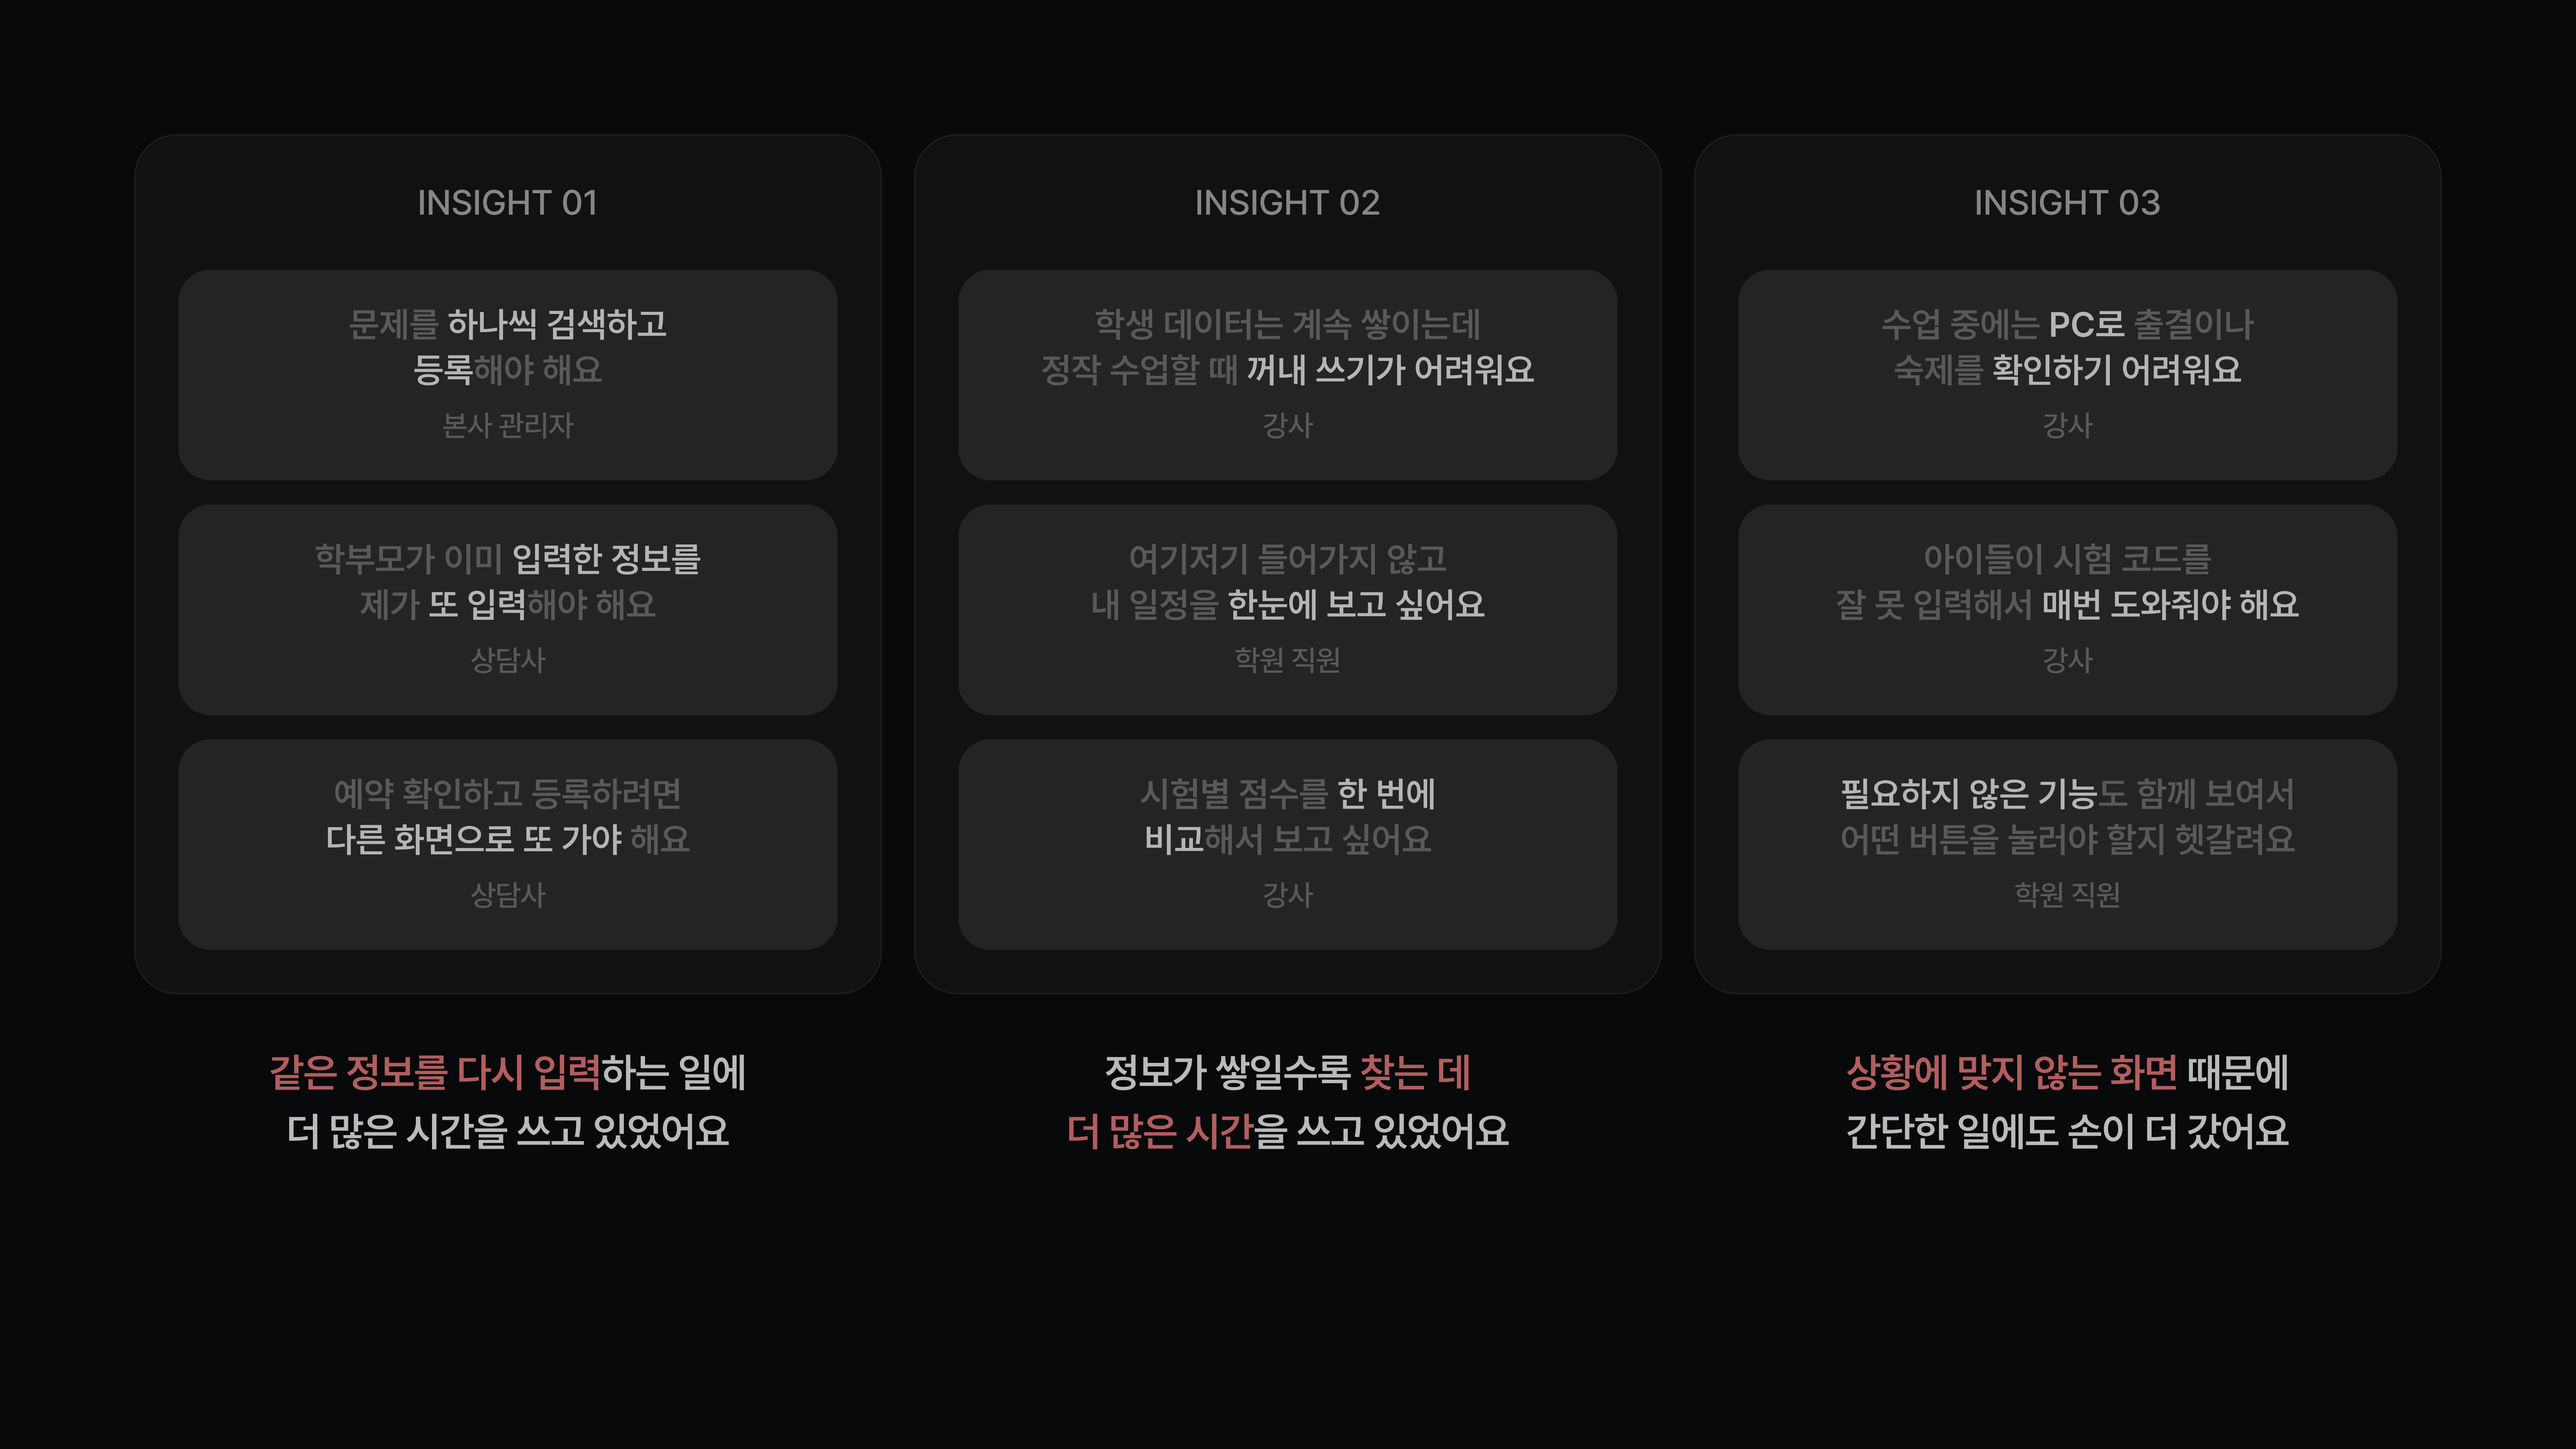
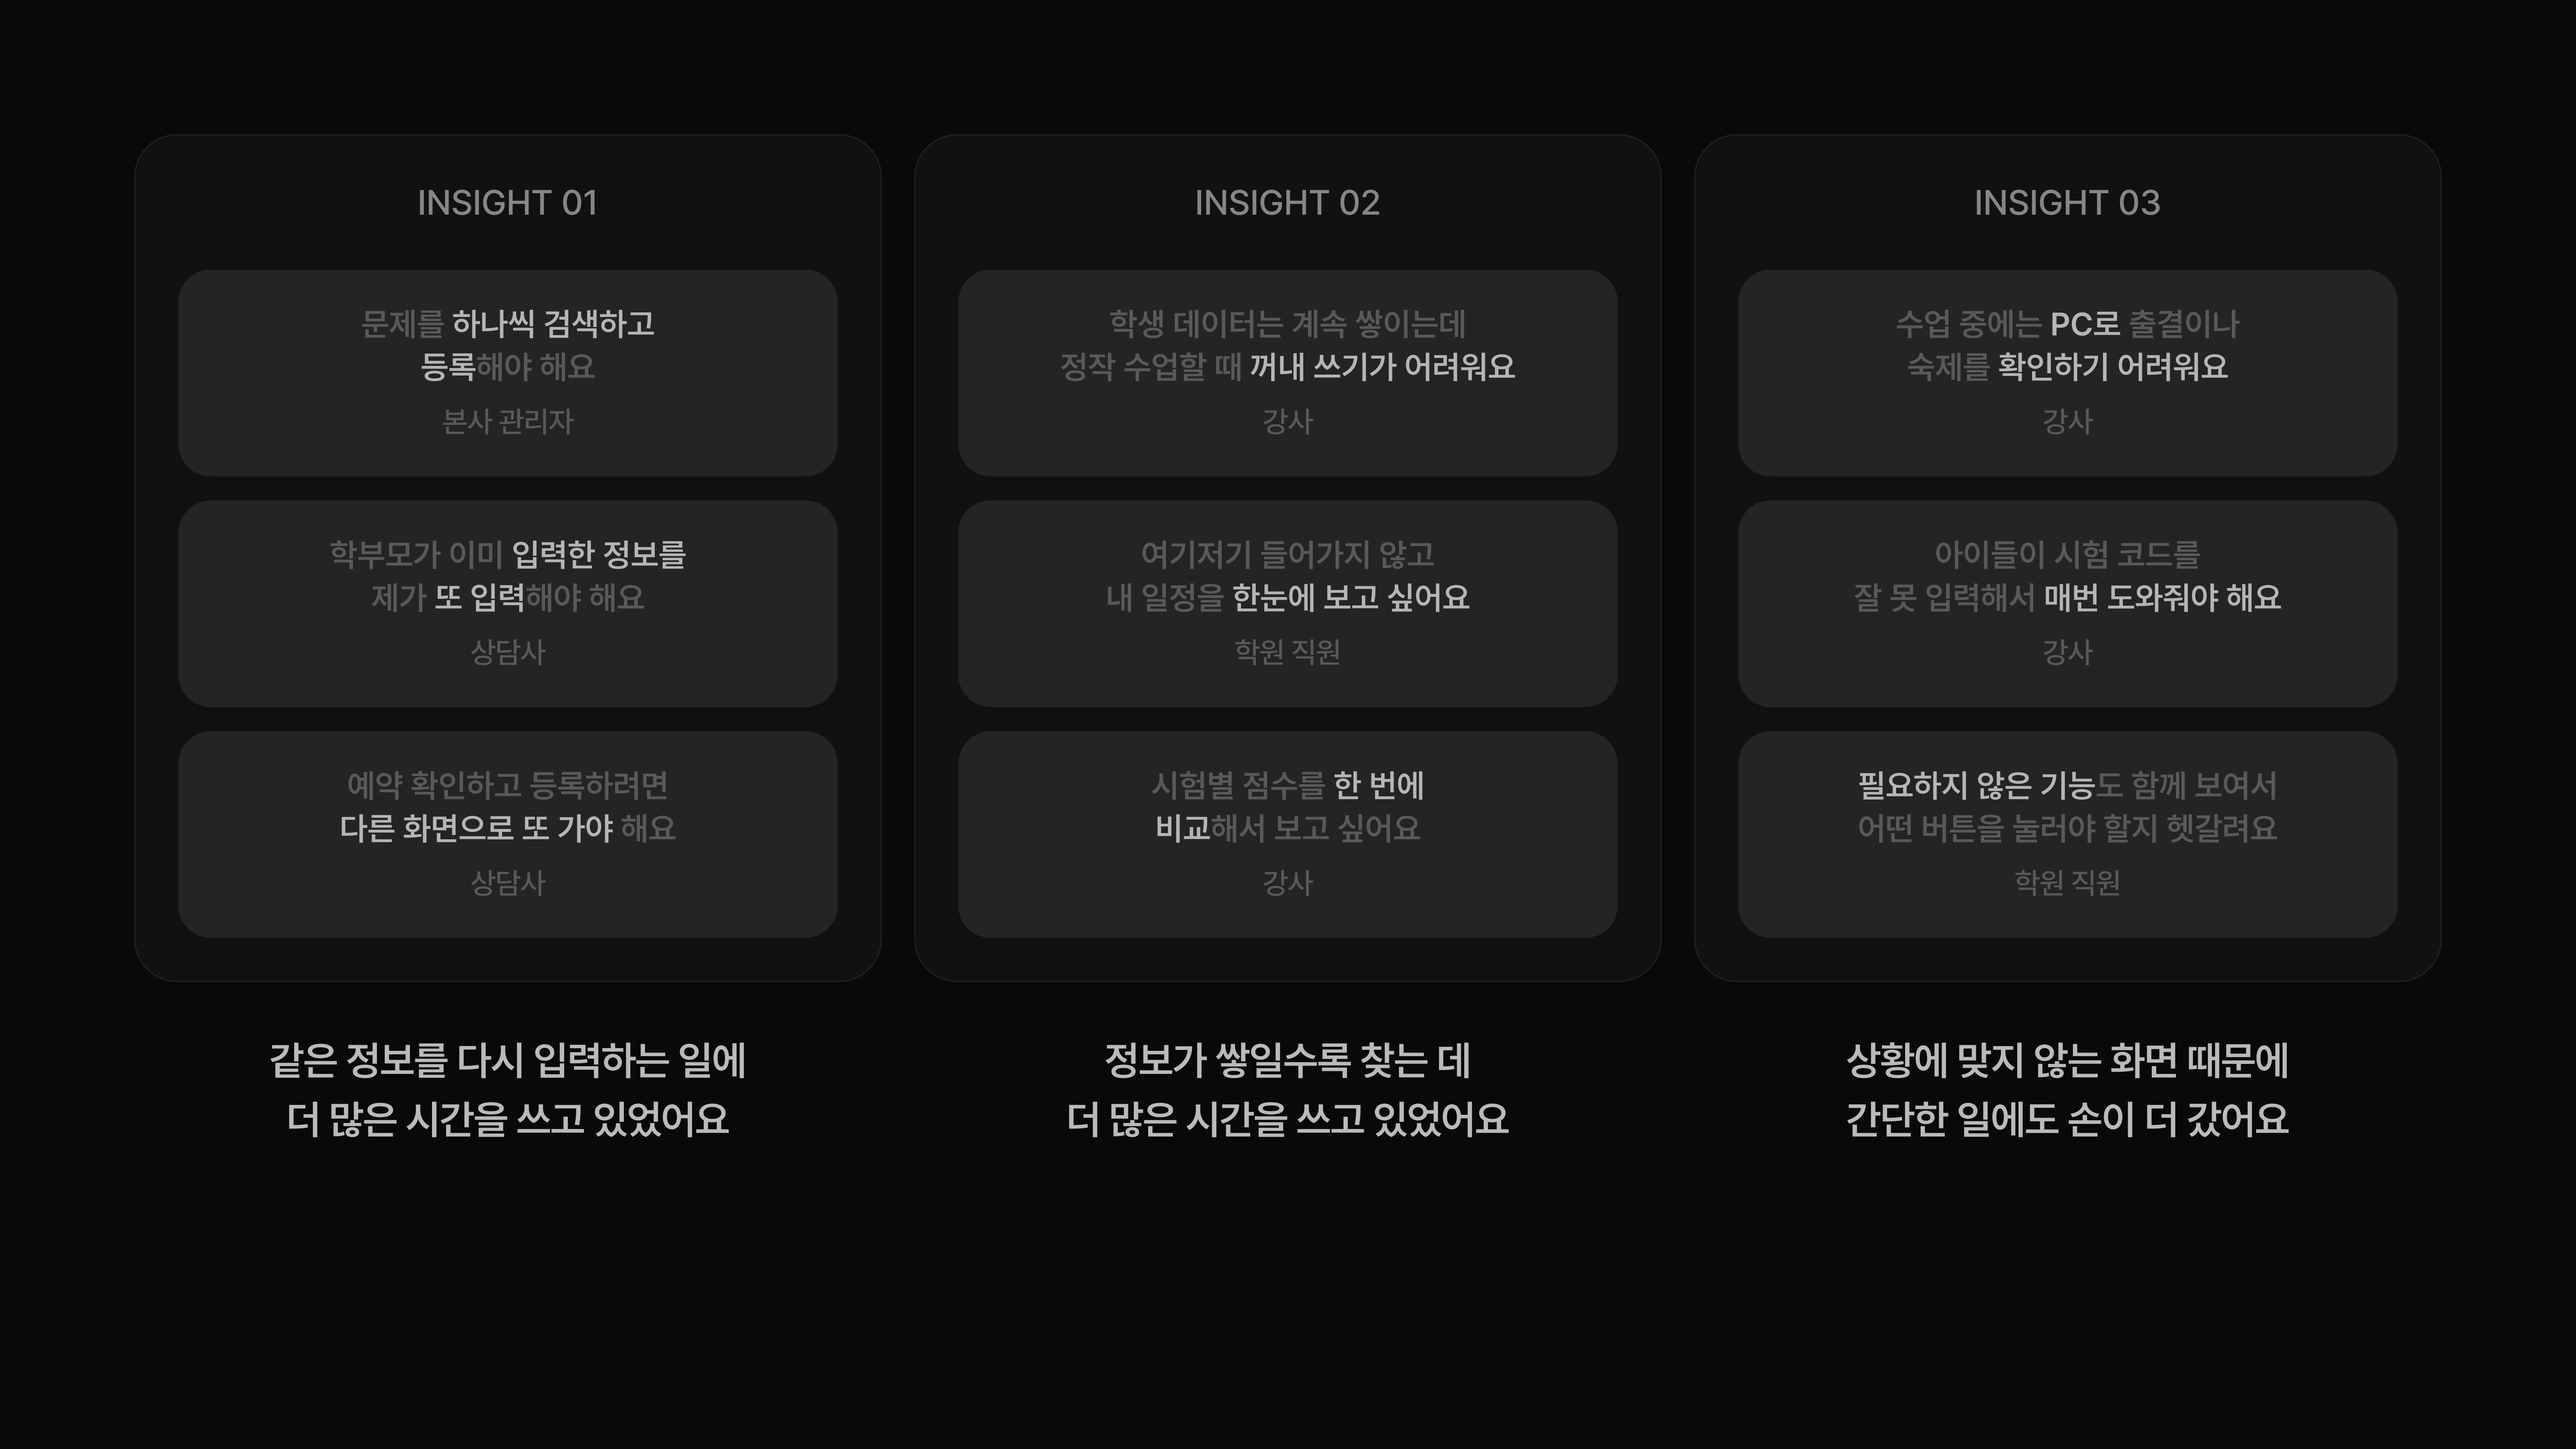
학원 ERP 04번 슬라이드 재내보내기본 반영
- 04.png 갱신 (7680x4320, 총 23장 그대로)
  하단 요약 문구의 빨간 강조를 빼고 흰색으로 통일했다.
- ASSET_VERSION 20261125g -> 20261125h

diff --git a/assets/js/main.js b/assets/js/main.js
@@ -70,7 +70,7 @@
      (CSS/JS 의 ?v= 와 같은 역할)
      경로 자체에는 붙이지 않는다 — 확장자 추출이나 존재 확인이 쿼리에
      오염되면 안 되므로, <img src> 에 실을 때만 versioned() 로 감싼다. */
-  var ASSET_VERSION = '20261125g';
+  var ASSET_VERSION = '20261125h';
   function slidePath(key, n, ext) { return 'assets/slides/' + key + '/' + pad(n) + '.' + ext; }
   function versioned(src) { return src + '?v=' + ASSET_VERSION; }
 

diff --git a/index.html b/index.html
@@ -169,6 +169,6 @@
   </div>
 </div>
 
-<script src="assets/js/main.js?v=20261125g"></script>
+<script src="assets/js/main.js?v=20261125h"></script>
 </body>
 </html>
